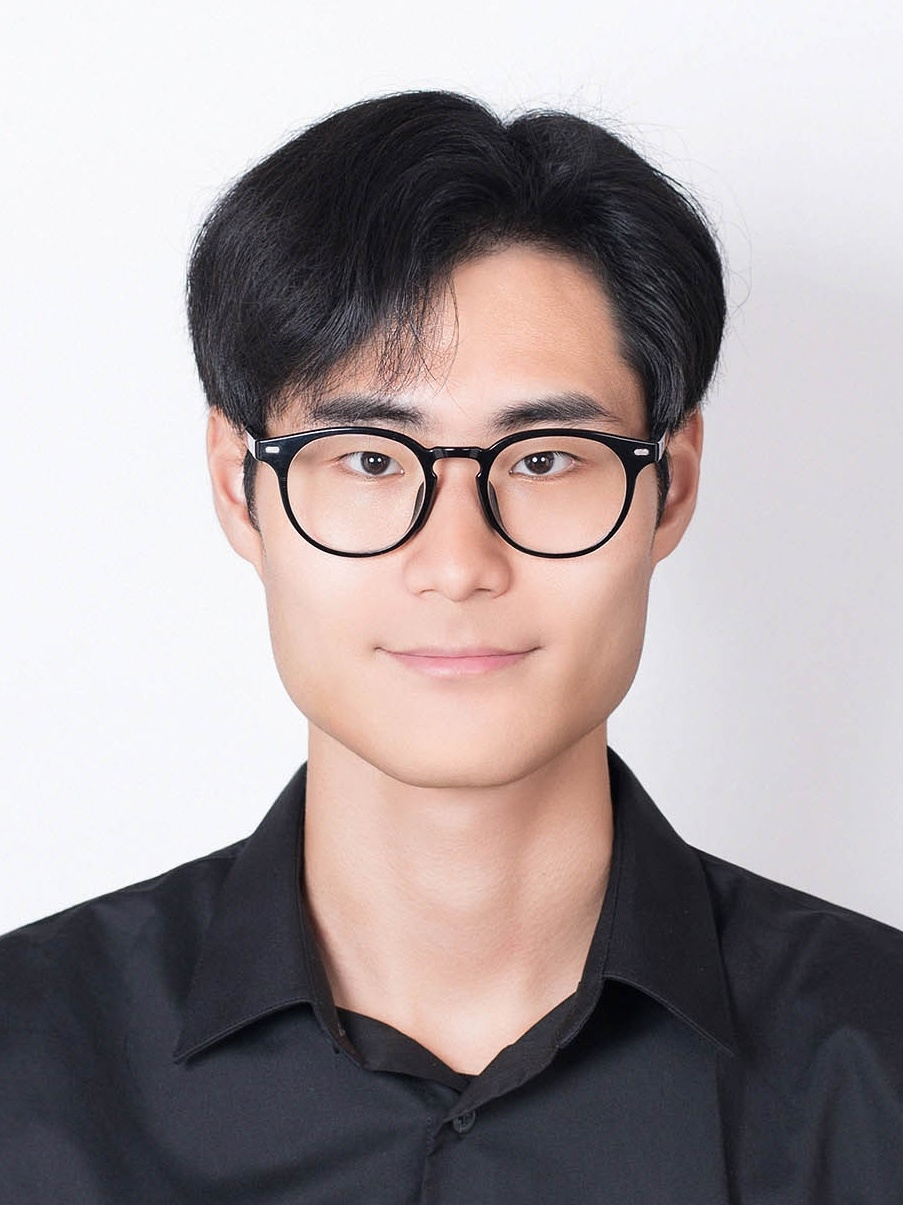
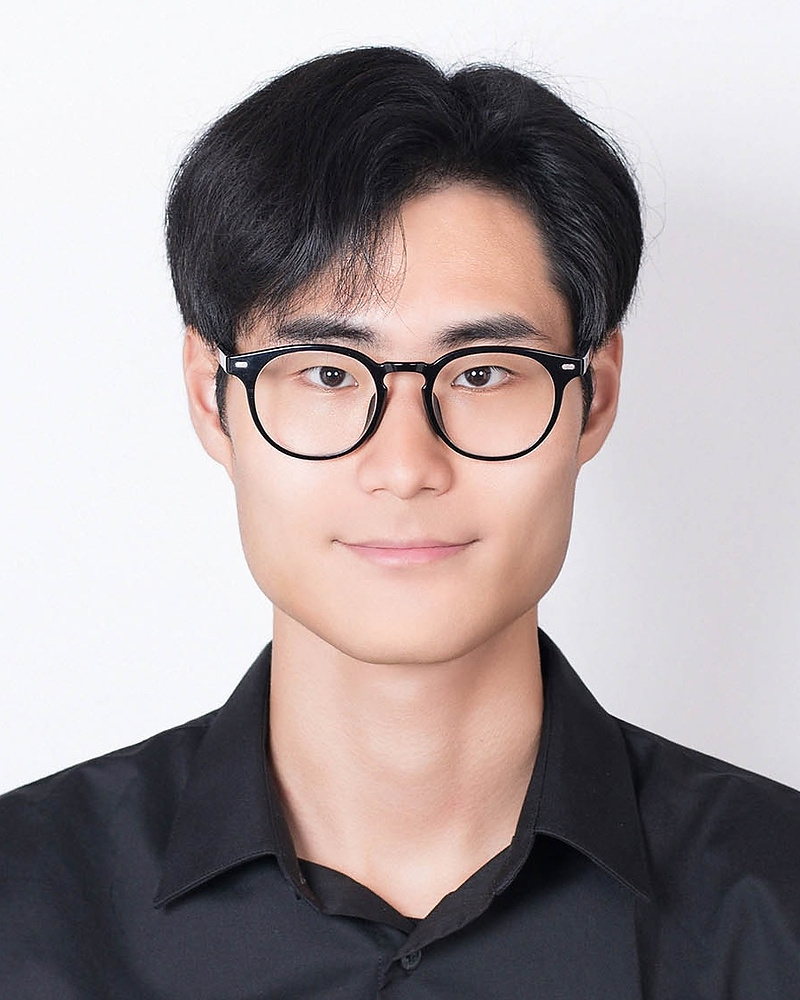
Optimize researcher portraits for web display

diff --git a/members/index.html b/members/index.html
@@ -264,9 +264,6 @@ a {
     object-position:
         center center;
 
-    transform:
-        scale(1.001);
-
     transition:
         transform 0.35s ease,
         opacity 0.25s ease;
